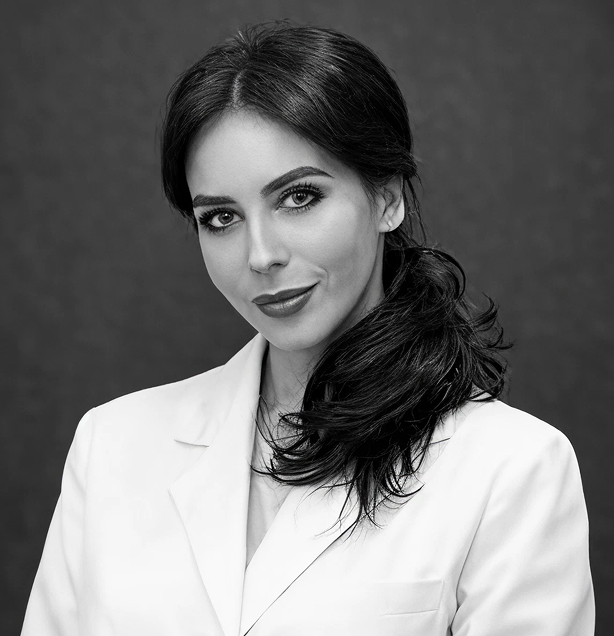
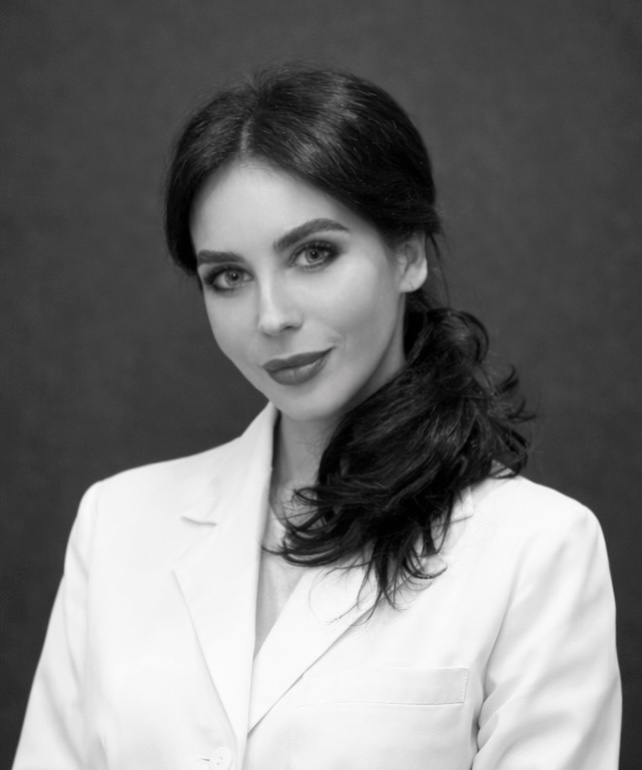
deleted link from footer, changed copy

diff --git a/concept.html b/concept.html
@@ -449,7 +449,6 @@
             <h3 class="footer__heading">Social networks</h3>
             <ul class="footer__list">
               <li><a href="https://instagram.com" target="_blank" rel="noopener">Instagram</a></li>
-              <li><a href="https://t.me" target="_blank" rel="noopener">Telegram</a></li>
               <li><a href="https://wa.me" target="_blank" rel="noopener">WhatsApp</a></li>
             </ul>
           </div>
@@ -486,7 +485,7 @@
 
           <div class="footer__bottom-meta">
             <a href="#" class="footer__privacy">Privacy Policy</a>
-            <span class="footer__copyright">YURON Clinic &copy;2026. All rights reserved</span>
+            <span class="footer__copyright">Yuron Regenerative Medicine &copy;2026. All rights reserved</span>
             <a href="#" class="footer__cookie">Cookie policy</a>
           </div>
         </div>

diff --git a/contacts.html b/contacts.html
@@ -291,7 +291,6 @@
             <h3 class="footer__heading">Social networks</h3>
             <ul class="footer__list">
               <li><a href="https://instagram.com" target="_blank" rel="noopener">Instagram</a></li>
-              <li><a href="https://t.me" target="_blank" rel="noopener">Telegram</a></li>
               <li><a href="https://wa.me" target="_blank" rel="noopener">WhatsApp</a></li>
             </ul>
           </div>
@@ -328,7 +327,7 @@
 
           <div class="footer__bottom-meta">
             <a href="#" class="footer__privacy">Privacy Policy</a>
-            <span class="footer__copyright">YURON Clinic &copy;2026. All rights reserved</span>
+            <span class="footer__copyright">Yuron Regenerative Medicine &copy;2026. All rights reserved</span>
             <a href="#" class="footer__cookie">Cookie policy</a>
           </div>
         </div>

diff --git a/facial-massages.html b/facial-massages.html
@@ -384,7 +384,6 @@
             <h3 class="footer__heading">Social networks</h3>
             <ul class="footer__list">
               <li><a href="https://instagram.com" target="_blank" rel="noopener">Instagram</a></li>
-              <li><a href="https://t.me" target="_blank" rel="noopener">Telegram</a></li>
               <li><a href="https://wa.me" target="_blank" rel="noopener">WhatsApp</a></li>
             </ul>
           </div>
@@ -421,7 +420,7 @@
 
           <div class="footer__bottom-meta">
             <a href="#" class="footer__privacy">Privacy Policy</a>
-            <span class="footer__copyright">YURON Clinic &copy;2026. All rights reserved</span>
+            <span class="footer__copyright">Yuron Regenerative Medicine &copy;2026. All rights reserved</span>
             <a href="#" class="footer__cookie">Cookie policy</a>
           </div>
         </div>

diff --git a/health-journey.html b/health-journey.html
@@ -371,7 +371,6 @@
             <h3 class="footer__heading">Social networks</h3>
             <ul class="footer__list">
               <li><a href="https://instagram.com" target="_blank" rel="noopener">Instagram</a></li>
-              <li><a href="https://t.me" target="_blank" rel="noopener">Telegram</a></li>
               <li><a href="https://wa.me" target="_blank" rel="noopener">WhatsApp</a></li>
             </ul>
           </div>
@@ -408,7 +407,7 @@
 
           <div class="footer__bottom-meta">
             <a href="#" class="footer__privacy">Privacy Policy</a>
-            <span class="footer__copyright">YURON Clinic &copy;2026. All rights reserved</span>
+            <span class="footer__copyright">Yuron Regenerative Medicine &copy;2026. All rights reserved</span>
             <a href="#" class="footer__cookie">Cookie policy</a>
           </div>
         </div>

diff --git a/index.html b/index.html
@@ -1058,7 +1058,6 @@
             <h3 class="footer__heading">Social networks</h3>
             <ul class="footer__list">
               <li><a href="https://instagram.com" target="_blank" rel="noopener">Instagram</a></li>
-              <li><a href="https://t.me" target="_blank" rel="noopener">Telegram</a></li>
               <li><a href="https://wa.me" target="_blank" rel="noopener">WhatsApp</a></li>
             </ul>
           </div>
@@ -1095,7 +1094,7 @@
 
           <div class="footer__bottom-meta">
             <a href="#" class="footer__privacy">Privacy Policy</a>
-            <span class="footer__copyright">YURON Clinic &copy;2026. All rights reserved</span>
+            <span class="footer__copyright">Yuron Regenerative Medicine &copy;2026. All rights reserved</span>
             <a href="#" class="footer__cookie">Cookie policy</a>
           </div>
         </div>

diff --git a/news.html b/news.html
@@ -467,7 +467,6 @@
             <h3 class="footer__heading">Social networks</h3>
             <ul class="footer__list">
               <li><a href="https://instagram.com" target="_blank" rel="noopener">Instagram</a></li>
-              <li><a href="https://t.me" target="_blank" rel="noopener">Telegram</a></li>
               <li><a href="https://wa.me" target="_blank" rel="noopener">WhatsApp</a></li>
             </ul>
           </div>
@@ -504,7 +503,7 @@
 
           <div class="footer__bottom-meta">
             <a href="#" class="footer__privacy">Privacy Policy</a>
-            <span class="footer__copyright">YURON Clinic &copy;2026. All rights reserved</span>
+            <span class="footer__copyright">Yuron Regenerative Medicine &copy;2026. All rights reserved</span>
             <a href="#" class="footer__cookie">Cookie policy</a>
           </div>
         </div>

diff --git a/post.html b/post.html
@@ -387,7 +387,6 @@
             <h3 class="footer__heading">Social networks</h3>
             <ul class="footer__list">
               <li><a href="https://instagram.com" target="_blank" rel="noopener">Instagram</a></li>
-              <li><a href="https://t.me" target="_blank" rel="noopener">Telegram</a></li>
               <li><a href="https://wa.me" target="_blank" rel="noopener">WhatsApp</a></li>
             </ul>
           </div>
@@ -424,7 +423,7 @@
 
           <div class="footer__bottom-meta">
             <a href="#" class="footer__privacy">Privacy Policy</a>
-            <span class="footer__copyright">YURON Clinic &copy;2026. All rights reserved</span>
+            <span class="footer__copyright">Yuron Regenerative Medicine &copy;2026. All rights reserved</span>
             <a href="#" class="footer__cookie">Cookie policy</a>
           </div>
         </div>

diff --git a/signature-protocols.html b/signature-protocols.html
@@ -390,7 +390,6 @@
             <h3 class="footer__heading">Social networks</h3>
             <ul class="footer__list">
               <li><a href="https://instagram.com" target="_blank" rel="noopener">Instagram</a></li>
-              <li><a href="https://t.me" target="_blank" rel="noopener">Telegram</a></li>
               <li><a href="https://wa.me" target="_blank" rel="noopener">WhatsApp</a></li>
             </ul>
           </div>
@@ -427,7 +426,7 @@
 
           <div class="footer__bottom-meta">
             <a href="#" class="footer__privacy">Privacy Policy</a>
-            <span class="footer__copyright">YURON Clinic &copy;2026. All rights reserved</span>
+            <span class="footer__copyright">Yuron Regenerative Medicine &copy;2026. All rights reserved</span>
             <a href="#" class="footer__cookie">Cookie policy</a>
           </div>
         </div>

diff --git a/skin-restructuring.html b/skin-restructuring.html
@@ -936,7 +936,6 @@
             <h3 class="footer__heading">Social networks</h3>
             <ul class="footer__list">
               <li><a href="https://instagram.com" target="_blank" rel="noopener">Instagram</a></li>
-              <li><a href="https://t.me" target="_blank" rel="noopener">Telegram</a></li>
               <li><a href="https://wa.me" target="_blank" rel="noopener">WhatsApp</a></li>
             </ul>
           </div>
@@ -973,7 +972,7 @@
 
           <div class="footer__bottom-meta">
             <a href="#" class="footer__privacy">Privacy Policy</a>
-            <span class="footer__copyright">YURON Clinic &copy;2026. All rights reserved</span>
+            <span class="footer__copyright">Yuron Regenerative Medicine &copy;2026. All rights reserved</span>
             <a href="#" class="footer__cookie">Cookie policy</a>
           </div>
         </div>

diff --git a/skin-screening.html b/skin-screening.html
@@ -369,7 +369,6 @@
             <h3 class="footer__heading">Social networks</h3>
             <ul class="footer__list">
               <li><a href="https://instagram.com" target="_blank" rel="noopener">Instagram</a></li>
-              <li><a href="https://t.me" target="_blank" rel="noopener">Telegram</a></li>
               <li><a href="https://wa.me" target="_blank" rel="noopener">WhatsApp</a></li>
             </ul>
           </div>
@@ -406,7 +405,7 @@
 
           <div class="footer__bottom-meta">
             <a href="#" class="footer__privacy">Privacy Policy</a>
-            <span class="footer__copyright">YURON Clinic &copy;2026. All rights reserved</span>
+            <span class="footer__copyright">Yuron Regenerative Medicine &copy;2026. All rights reserved</span>
             <a href="#" class="footer__cookie">Cookie policy</a>
           </div>
         </div>

diff --git a/team.html b/team.html
@@ -429,7 +429,6 @@
             <h3 class="footer__heading">Social networks</h3>
             <ul class="footer__list">
               <li><a href="https://instagram.com" target="_blank" rel="noopener">Instagram</a></li>
-              <li><a href="https://t.me" target="_blank" rel="noopener">Telegram</a></li>
               <li><a href="https://wa.me" target="_blank" rel="noopener">WhatsApp</a></li>
             </ul>
           </div>
@@ -466,7 +465,7 @@
 
           <div class="footer__bottom-meta">
             <a href="#" class="footer__privacy">Privacy Policy</a>
-            <span class="footer__copyright">YURON Clinic &copy;2026. All rights reserved</span>
+            <span class="footer__copyright">Yuron Regenerative Medicine &copy;2026. All rights reserved</span>
             <a href="#" class="footer__cookie">Cookie policy</a>
           </div>
         </div>

diff --git a/transformation-cases.html b/transformation-cases.html
@@ -571,7 +571,6 @@
             <h3 class="footer__heading">Social networks</h3>
             <ul class="footer__list">
               <li><a href="https://instagram.com" target="_blank" rel="noopener">Instagram</a></li>
-              <li><a href="https://t.me" target="_blank" rel="noopener">Telegram</a></li>
               <li><a href="https://wa.me" target="_blank" rel="noopener">WhatsApp</a></li>
             </ul>
           </div>
@@ -608,7 +607,7 @@
 
           <div class="footer__bottom-meta">
             <a href="#" class="footer__privacy">Privacy Policy</a>
-            <span class="footer__copyright">YURON Clinic &copy;2026. All rights reserved</span>
+            <span class="footer__copyright">Yuron Regenerative Medicine &copy;2026. All rights reserved</span>
             <a href="#" class="footer__cookie">Cookie policy</a>
           </div>
         </div>